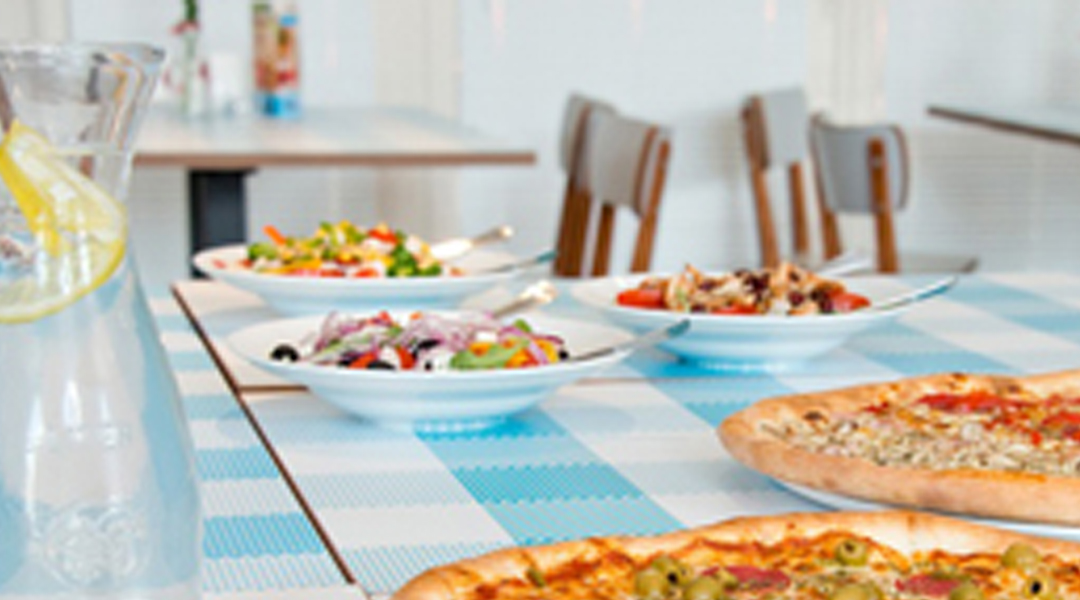
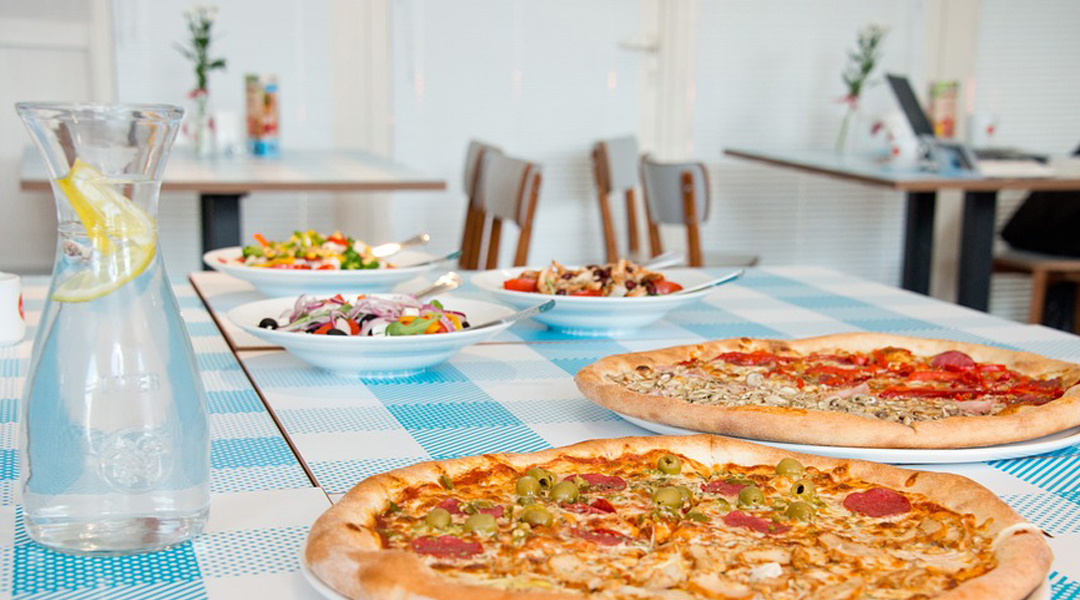
updated testimonials large images

diff --git a/src/css/style.css b/src/css/style.css
@@ -160,15 +160,15 @@ i:hover {
 }
 
 .tab1-bg {
-  background-image: url('./../public/img/testimonial_img1.jpg');
+  background-image: url('./../public/img/testimonial_img1-lg.jpg');
 }
 
 .tab2-bg {
-  background-image: url('./../public/img/testimonial_img2.jpg');
+  background-image: url('./../public/img/testimonial_img2-lg.jpg');
 }
 
 .tab3-bg {
-  background-image: url('./../public/img/testimonial_img3.jpg');
+  background-image: url('./../public/img/testimonial_img3-lg.jpg');
 }
 
 /*.sidebar {

diff --git a/src/public/views/portfolio.html b/src/public/views/portfolio.html
@@ -157,7 +157,7 @@
     <div class="col-sm-9" data-status="closed">
       <div class="row tab1-bg" id="show-testimonial">
         <div class="col-sm-6" id="quote">
-          <h2 class="section-heading">Testimonial</h2>
+          <h2 class="section-heading">What my clients are saying.</h2>
           <br />
           <p>
             &ldquo;{{currentTestimonial.contents}}&rdquo;
